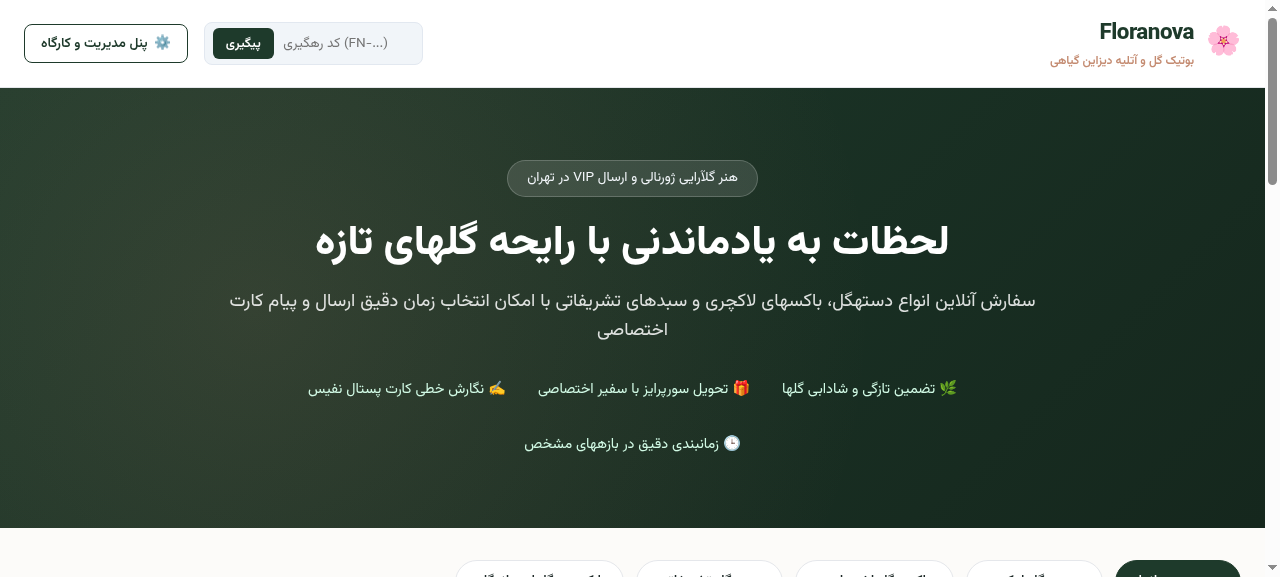
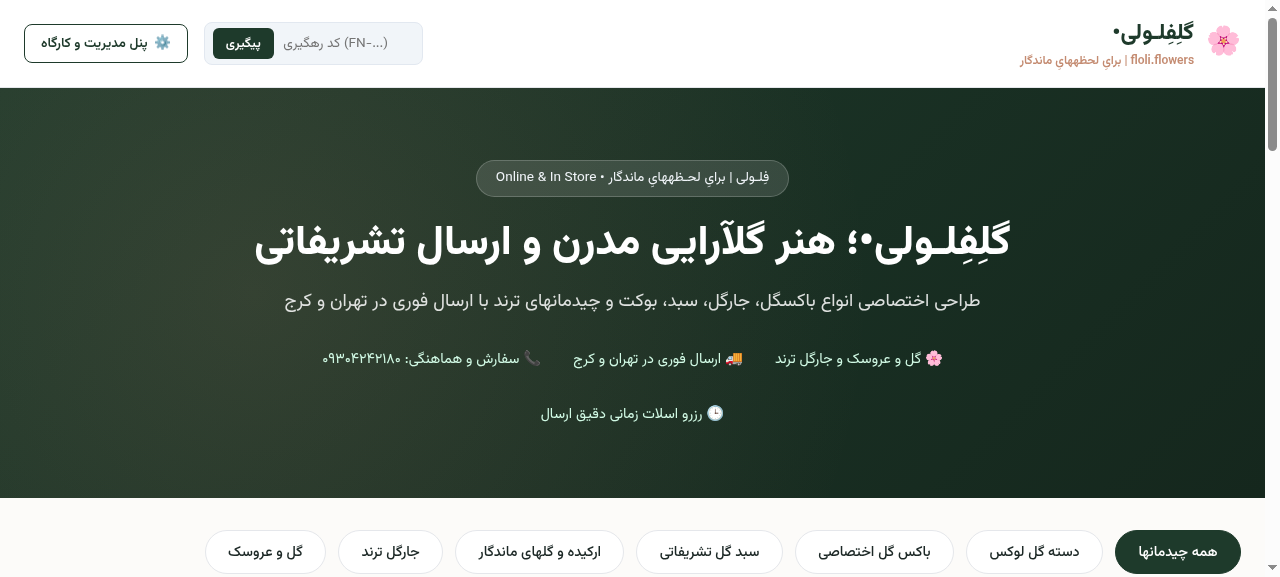
feat: customize branding, identity, and catalog for Floli Flowers (@floli.flowers)

diff --git a/src/floranova/web/templates/storefront.html b/src/floranova/web/templates/storefront.html
@@ -11,8 +11,8 @@
         <a href="/" class="brand-wrap">
             <span class="brand-icon">🌸</span>
             <div>
-                <div class="brand-name">{{ settings.APP_NAME }}</div>
-                <div class="brand-tag">بوتیک گل و آتلیه دیزاین گیاهی</div>
+                <div class="brand-name">گلِفِلـولی•</div>
+                <div class="brand-tag">floli.flowers | برایِ لحظههایِ ماندگار</div>
             </div>
         </a>
 
@@ -31,16 +31,16 @@
 <!-- Hero Section -->
 <section class="hero-banner">
     <div class="hero-content">
-        <div class="hero-badge">هنر گلآرایی ژورنالی و ارسال VIP در تهران</div>
-        <h1 class="hero-title">لحظات به یادماندنی با رایحه گلهای تازه</h1>
+        <div class="hero-badge">فِلـولی | برایِ لحـظههایِ ماندگار • Online & In Store</div>
+        <h1 class="hero-title">گلِفِلـولی•؛ هنر گلآرایی مدرن و ارسال تشریفاتی</h1>
         <p class="hero-subtitle">
-            سفارش آنلاین انواع دستهگل، باکسهای لاکچری و سبدهای تشریفاتی با امکان انتخاب زمان دقیق ارسال و پیام کارت اختصاصی
+            طراحی اختصاصی انواع باکسگل، جارگل، سبد، بوکت و چیدمانهای ترند با ارسال فوری در تهران و کرج
         </p>
         <div class="hero-features">
-            <div>🌿 تضمین تازگی و شادابی گلها</div>
-            <div>🎁 تحویل سورپرایز با سفیر اختصاصی</div>
-            <div>✍ نگارش خطی کارت پستال نفیس</div>
-            <div>🕒 زمانبندی دقیق در بازههای مشخص</div>
+            <div>🌸 گل و عروسک و جارگل ترند</div>
+            <div>🚚 ارسال فوری در تهران و کرج</div>
+            <div>📞 سفارش و هماهنگی: ۰۹۳۰۴۲۴۲۱۸۰</div>
+            <div>🕒 رزرو اسلات زمانی دقیق ارسال</div>
         </div>
     </div>
 </section>
@@ -183,14 +183,23 @@
                         </div>
                     </div>
 
-                    <div class="form-group">
-                        <label class="form-label">آدرس کامل محل تحویل در تهران:</label>
-                        <textarea id="recipientAddress" class="form-textarea" rows="2" required placeholder="خیابان، کوچه، پلاک، واحد"></textarea>
+                    <div style="display: grid; grid-template-columns: 1fr 1fr; gap: 0.75rem;">
+                        <div class="form-group">
+                            <label class="form-label">شهر مقصد:</label>
+                            <select id="recipientCity" class="form-select">
+                                <option value="تهران">تهران (ارسال اکسپرس)</option>
+                                <option value="کرج">کرج (ارسال تشریفاتی)</option>
+                            </select>
+                        </div>
+                        <div class="form-group">
+                            <label class="form-label">منطقه / محله:</label>
+                            <input type="text" id="districtZone" class="form-input" placeholder="مثلاً: عظیمیه کرج / سعادتآباد تهران" />
+                        </div>
                     </div>
 
                     <div class="form-group">
-                        <label class="form-label">منطقه شهرداری / محله:</label>
-                        <input type="text" id="districtZone" class="form-input" placeholder="مثلاً: منطقه ۱ (الهیه)" />
+                        <label class="form-label">آدرس کامل محل تحویل:</label>
+                        <textarea id="recipientAddress" class="form-textarea" rows="2" required placeholder="خیابان، کوچه، پلاک، واحد"></textarea>
                     </div>
 
                     <!-- Surprise Gift Checkbox -->
@@ -254,14 +263,15 @@
 <footer class="store-footer">
     <div class="footer-container">
         <div>
-            <h3 style="color: var(--primary); margin-bottom: 0.5rem; font-size: 1.1rem;">بوتیک گل {{ settings.APP_NAME }}</h3>
-            <p>{{ settings.STORE_ADDRESS_FA }}</p>
-            <p>تلفن هماهنگی و پشتیبانی کارگاه: {{ settings.STORE_PHONE }}</p>
+            <h3 style="color: var(--primary); margin-bottom: 0.5rem; font-size: 1.1rem;">گلِفِلـولی• | Floli Flowers</h3>
+            <p>{{ settings.STORE_SLOGAN_FA }}</p>
+            <p>سفارشات و مشاوره گلآرایی: {{ settings.STORE_PHONE_FA }}</p>
+            <p>ارسال تشریفاتی در سراسر تهران و کرج (Online & In Store)</p>
         </div>
         <div>
-            <h4 style="color: var(--primary); margin-bottom: 0.5rem;">ساعت کاری آتلیه دیزاین</h4>
-            <p>همهروزه از ۸:۰۰ صبح الی ۲۱:۰۰ شب</p>
-            <p>پشتیبانی اینستاگرام: {{ settings.INSTAGRAM_HANDLE }}</p>
+            <h4 style="color: var(--primary); margin-bottom: 0.5rem;">صفحه رسمی اینستاگرام</h4>
+            <p><a href="{{ settings.INSTAGRAM_URL }}" target="_blank" style="color: var(--primary); font-weight: bold; text-decoration: underline;">@{{ settings.INSTAGRAM_HANDLE }}</a></p>
+            <p>ساعت کاری استودیو دیزاین: ۸:۰۰ صبح الی ۲۱:۳۰ شب</p>
         </div>
     </div>
 </footer>

diff --git a/src/floranova/config.py b/src/floranova/config.py
@@ -1,15 +1,14 @@
 from pydantic_settings import BaseSettings, SettingsConfigDict
-from typing import Optional
 
 
 class Settings(BaseSettings):
-    APP_NAME: str = "Floranova"
-    APP_TITLE: str = "Floranova Artisan Floral Operations & E-Commerce"
+    APP_NAME: str = "Floli Flowers"
+    APP_TITLE: str = "گلِفِلـولی• | Floli Flowers"
     ENVIRONMENT: str = "production"
     DEBUG: bool = False
     
     # Security
-    SECRET_KEY: str = "floranova-super-secret-jwt-key-production-grade-2026-botanica"
+    SECRET_KEY: str = "floli-flowers-super-secret-jwt-key-production-grade-2026"
     ALGORITHM: str = "HS256"
     ACCESS_TOKEN_EXPIRE_MINUTES: int = 60 * 24 * 7  # 7 days
     
@@ -22,10 +21,15 @@ class Settings(BaseSettings):
     DEFAULT_DELIVERY_FEE: int = 75000  # 75,000 Tomans
     FREE_DELIVERY_THRESHOLD: int = 2500000  # Free delivery above 2.5M Tomans
     
-    # Store Profile
-    STORE_PHONE: str = "021-88990011"
-    STORE_ADDRESS_FA: str = "تهران، خیابان ولیعصر، بالاتر از زعفرانیه، پلاک ۱۱۸"
-    INSTAGRAM_HANDLE: str = "@floranova.ir"
+    # Store Profile (from https://www.instagram.com/floli.flowers)
+    STORE_NAME_FA: str = "گلِفِلـولی•"
+    STORE_SLOGAN_FA: str = "فِلـولی | برایِ لحـظههایِ ماندگار"
+    STORE_PHONE: str = "09304242180"
+    STORE_PHONE_FA: str = "۰۹۳۰۴۲۴۲۱۸۰"
+    STORE_ADDRESS_FA: str = "تهران و کرج (ارسال تشریفاتی و تحویل حضوری استودیو)"
+    STORE_CITIES_FA: str = "تهران و کرج"
+    INSTAGRAM_HANDLE: str = "floli.flowers"
+    INSTAGRAM_URL: str = "https://www.instagram.com/floli.flowers"
     
     model_config = SettingsConfigDict(
         env_file=".env",
